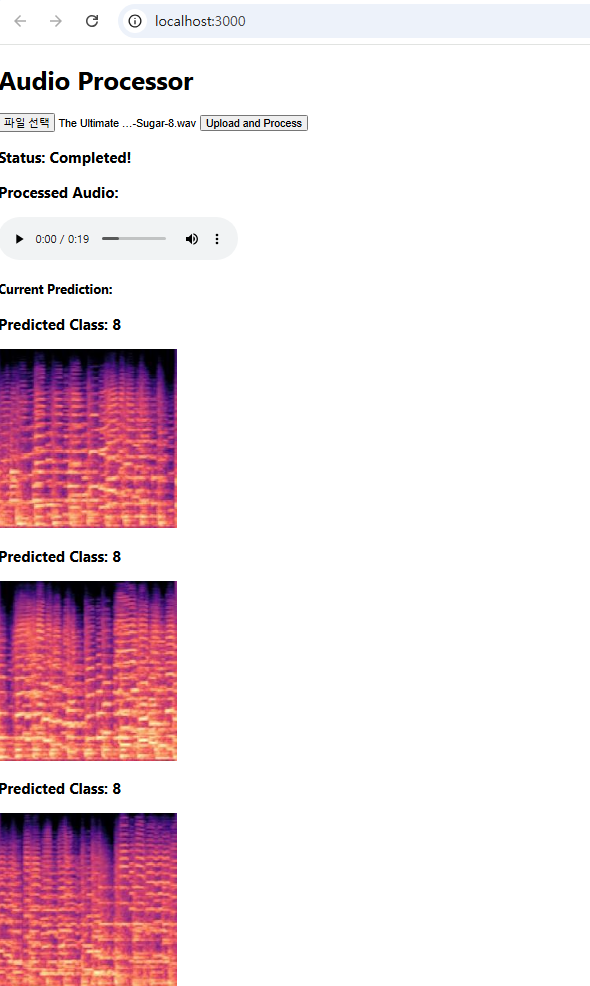
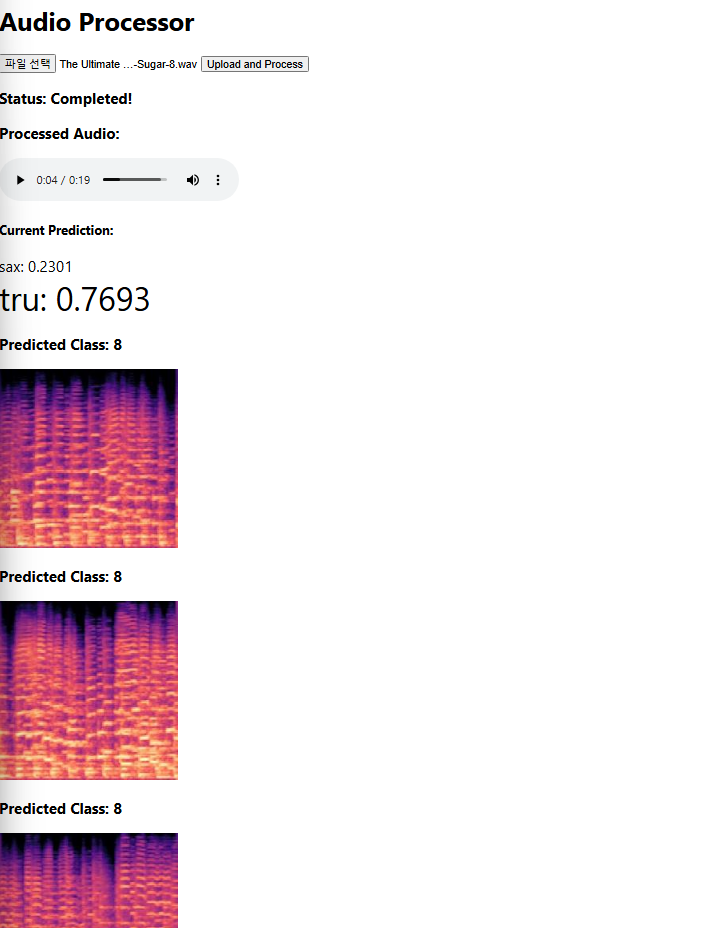
전체 출력 대신 폰트 변경 및 요약으로 변경

Changed region(s): [[0.0, 0.0, 0.5186, 1.0], [0.3051, 0.2188, 0.3356, 0.25]]

diff --git a/SourceCode/Application/Frontend/App.js b/SourceCode/Application/Frontend/App.js
@@ -119,11 +119,17 @@ const updatePrediction = () => {
             <div>
               <h4>Current Prediction:</h4>
               {currentPrediction &&
-                currentPrediction.map((pred, idx) => (
-                  <p key={idx}>
-                    {pred.instrument}: {pred.probability}
-                  </p>
-                ))}
+                currentPrediction.map((pred, idx) => {
+                  const probability = parseFloat(pred.probability); // 숫자로 변환
+                  if (probability > 0.1) {
+                    return (
+                      <p key={idx} style={{ fontSize: `${10 + probability * 40}px` }}>
+                        {pred.instrument}: {pred.probability}
+                      </p>
+                    );
+                  }
+                  return null; // 0.1 이하일 경우 아무것도 렌더링하지 않음
+                })}
             </div>
           </div>
         )}

diff --git a/README.md b/README.md
@@ -110,3 +110,8 @@ App.js for react frontend (Frontend/src)
 - model prediction corresponding current played time index of audio player
 
 ![result_predict](https://github.com/D6-Byun/CTP431-Fall/blob/main/SourceCode/Application/Frontend/result_predict.png)
+
+model prediction only shows (>10%) possible instruments. Higher possible instrument has larger font size.
+
+The actual prediction values are as follows.
+![result_predict_detail](https://github.com/D6-Byun/CTP431-Fall/blob/main/SourceCode/Application/Frontend/result_predict_detail.png)

diff --git a/SourceCode/Application/README.md b/SourceCode/Application/README.md
@@ -50,3 +50,8 @@ App.js for react frontend (Frontend/src)
 - model prediction corresponding current played time index of audio player
 
 ![result_predict](https://github.com/D6-Byun/CTP431-Fall/blob/main/SourceCode/Application/Frontend/result_predict.png)
+
+model prediction only shows (>10%) possible instruments. Higher possible instrument has larger font size.
+
+The actual prediction values are as follows.
+![result_predict_detail](https://github.com/D6-Byun/CTP431-Fall/blob/main/SourceCode/Application/Frontend/result_predict_detail.png)
